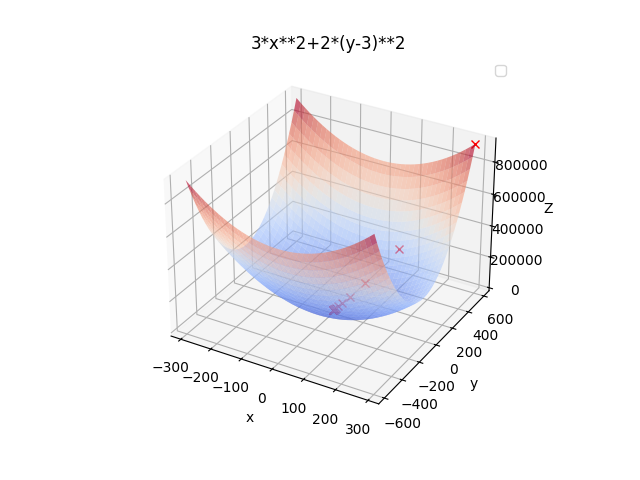
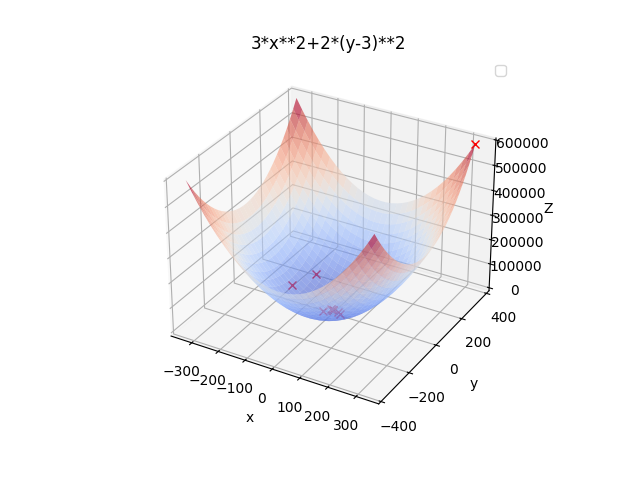
momentum and line connecting dots in countor line graphic edded

Changed region(s): [[0.25, 0.1875, 0.875, 0.8438], [0.4375, 0.7812, 0.7188, 0.9062], [0.7188, 0.625, 0.8125, 0.75]]

diff --git a/gradient_descent.py b/gradient_descent.py
@@ -2,13 +2,13 @@ import random
 from utils import create_function, get_value, product_vector
 import numpy as np
 
-def gradient_descent(equation, symbols, learning_rate, expected_error = 0.01, max_iteration = 100, stop_type = 1, initial_dot=None):
+def gradient_descent(equation, symbols, learning_rate, expected_error = 0.01, max_iteration = 100, stop_type = 1, initial_dot=None, momentum = 0.5):
 
     error, dot_list, error_list = 9999999999, [], []
-    current_iteration = 1
+    current_iteration, previous_gradient = 1, 0
 
     if initial_dot is None:
-        x = [random.randint(0,1000) for _ in range(len(symbols))]
+        x = [random.randint(0,10) for _ in range(len(symbols))]
     else:
         x = initial_dot
     
@@ -17,15 +17,13 @@ def gradient_descent(equation, symbols, learning_rate, expected_error = 0.01, ma
         print(f"\nIteration: {current_iteration}")
         print(f"x:{x}")
         
-        previous_x = x.copy()
-
         f_x = get_value(x, equation, symbols)
 
         current_iteration += 1
 
         gradient = calculate_gradient(equation, x, symbols)
 
-        x -= learning_rate*gradient  
+        x -= (learning_rate*gradient + learning_rate*momentum*previous_gradient)
 
         new_f_x = get_value(x, equation, symbols)   
         error = abs((new_f_x-f_x)/f_x)
@@ -40,6 +38,8 @@ def gradient_descent(equation, symbols, learning_rate, expected_error = 0.01, ma
         if error < expected_error:
             print('Reach out convergence')
             break
+
+        previous_gradient = gradient
 
     if current_iteration >= max_iteration: print('Max Iteration')
 

diff --git a/main.py b/main.py
@@ -3,18 +3,18 @@ from gradient_descent import gradient_descent
 import numpy as np
 import matplotlib.pyplot as plt
 
-#equation_in_string = "3*x**2+2*(y-3)**2"
+equation_in_string = "3*x**2+2*(y-3)**2"
 #equation_in_string = "-1/((x**2+y**2+1)**(1/2))+2.71**(-x**2-y**2)"
-equation_in_string  = "x**2-3*x" # one variable(x), change the initial_dot
+#equation_in_string  = "x**2-3*x" # one variable(x), change the initial_dot
 
-initial_dot, range_print = None, 2
-save_img, countour_line_graphic = True, True
+initial_dot, range_print, momentum = None, 2, 0.5
+save_img, countour_line_graphic, create_line_connecting_dots = False, True, True
 learning_rate, expected_error = 0.1, 0.0001 
 
 equation, symbols = create_function(equation_in_string)
 print(symbols)
 
-dot_list, error_list = gradient_descent(equation, symbols, learning_rate=learning_rate, initial_dot=initial_dot, expected_error=expected_error)
+dot_list, error_list = gradient_descent(equation, symbols, learning_rate=learning_rate, initial_dot=initial_dot, expected_error=expected_error, momentum=momentum)
 
 generate_error_graphic(error_list,equation,save_img)
 
@@ -23,4 +23,4 @@ if len(symbols) == 1:
 if len(symbols) == 2:
     generate_3d_graphic(dot_list,equation,symbols,equation_in_string,save_img,range_print)
     if countour_line_graphic:
-        generate_countour_line_graphic(dot_list,equation,symbols,equation_in_string,save_img,range_print)
+        generate_countour_line_graphic(dot_list,equation,symbols,equation_in_string,save_img,range_print,create_line_connecting_dots)

diff --git a/utils.py b/utils.py
@@ -87,7 +87,7 @@ def generate_3d_graphic(dot_list,equation,symbols,equation_in_string,save_img=Fa
     if save_img: plt.savefig(f'img/3d.png')
     plt.show()
 
-def generate_countour_line_graphic(dot_list,equation,symbols,equation_in_string,save_img=False,range_print=1,x_label='x',y_label='y'): 
+def generate_countour_line_graphic(dot_list,equation,symbols,equation_in_string,save_img=False,range_print=1,x_label='x',y_label='y',create_line_connecting_dots=False): 
     
     last_element_x = float(dot_list[-1][0])
     last_element_y = float(dot_list[-1][1])
@@ -109,7 +109,7 @@ def generate_countour_line_graphic(dot_list,equation,symbols,equation_in_string,
     ax.plot([i[0] for i in dot_list], [i[1] for i in dot_list], 'xr')
     #ax.contourf(x, y, z, 50, cmap='viridis', linestyles='solid')  
     ax.contourf(x, y, z, 50, cmap='coolwarm', linestyles='solid')  
-
+    for i in range(len(dot_list)-1):ax.plot([dot_list[i][0],dot_list[i+1][0]],[dot_list[i][1],dot_list[i+1][1]])
     ax.set_title(equation_in_string) 
     ax.set_xlabel(x_label)
     ax.set_ylabel(y_label)
